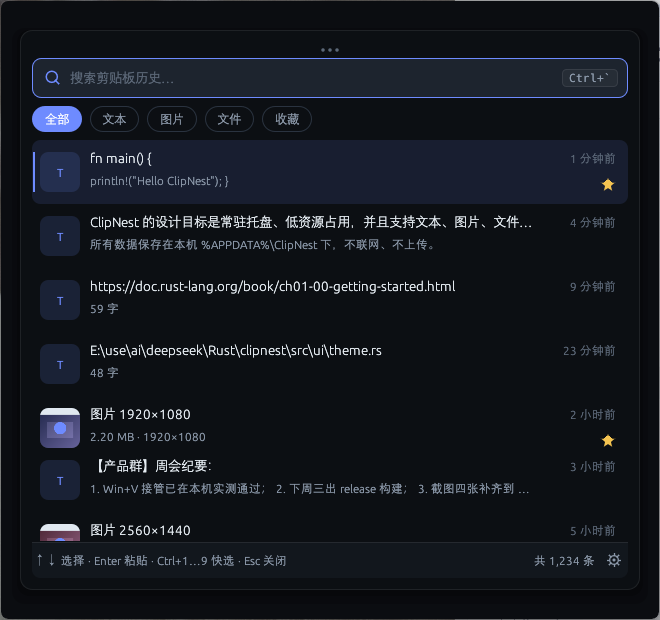
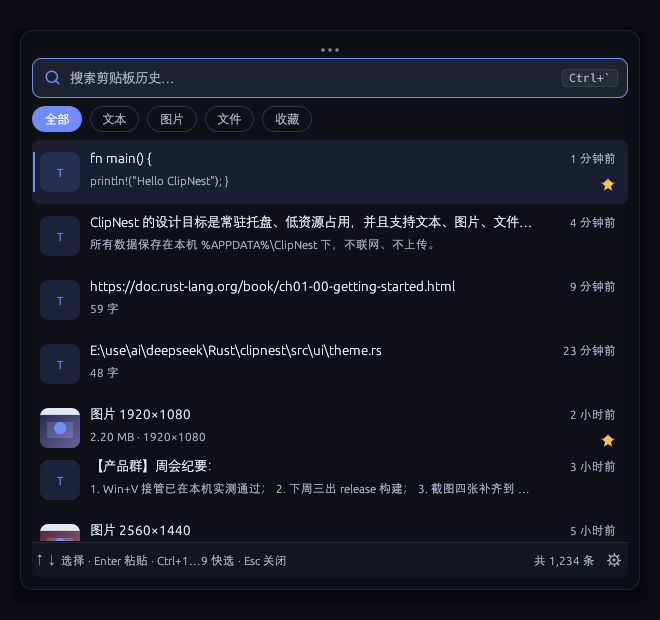
v1.7.1: fix picker readability on white/light backgrounds

diff --git a/src/ui/theme.rs b/src/ui/theme.rs
@@ -3,7 +3,7 @@
 //! **严格对应设计文档 §7 视觉规范**（色板不可自创）：
 //! - 窗口底 `#0E1116` @82%（亚克力上叠层）；面板/侧栏 `#131820` @92%；
 //!   卡片/输入框 `#1A212B`；分隔线 `#2A3340`（1px、8% 白叠加）。
-//! - 主/次/弱文本 `#E6EDF3` / `#8B98A9` / `#5C6878`；强调 `#6E8BFF`（悬停 `#8AA2FF`）。
+//! - 主/次/弱文本 `#E6EDF3` / `#A5B2C4` / `#7F8C9E`；强调 `#6E8BFF`（悬停 `#8AA2FF`）。
 //! - 字号：标题 15、列表标题 13.5、正文 13、辅助 11.5、代码 Monospace 12。
 //! - 行高 64；搜索框 40；圆角：窗口 12 / 卡片 10 / 输入框 9 / 缩略图 8 / 胶囊全圆。
 //!
@@ -55,8 +55,9 @@ struct Palette {
 
 const DARK: Palette = Palette {
     text: Color32::from_rgb(0xE6, 0xED, 0xF3),
-    text_secondary: Color32::from_rgb(0x8B, 0x98, 0xA9),
-    text_weak: Color32::from_rgb(0x5C, 0x68, 0x78),
+    // 提高深色主题的辅助文字对比度：在磨砂/明亮桌面背景下仍能看清说明文字。
+    text_secondary: Color32::from_rgb(0xA5, 0xB2, 0xC4),
+    text_weak: Color32::from_rgb(0x7F, 0x8C, 0x9E),
     accent: Color32::from_rgb(0x6E, 0x8B, 0xFF),
     accent_hover: Color32::from_rgb(0x8A, 0xA2, 0xFF),
     danger: Color32::from_rgb(0xFF, 0x6B, 0x6B),
@@ -234,6 +235,22 @@ pub fn panel_bg() -> Color32 {
     let pct = glass_opacity() as u16;
     let alpha = ((pct * 255) / 100 + 20).clamp(60, 255) as u8;
     scale_alpha(palette().panel_base, alpha)
+}
+
+/// 候选窗内容区底色（磨砂层之上再铺一层）。
+///
+/// 用户的「磨砂透明度」可以调到很低，此时如果内容直接画在透出的白色/浅色
+/// 桌面上，白字会和桌面混在一起。这里给内容区一个与玻璃透明度无关的
+/// **最低不透明度**：外层仍保留磨砂边缘，内容区始终有足够深的底，保证
+/// 主文本/次文本的对比度。
+pub fn content_bg() -> Color32 {
+    if !glass_enabled() {
+        return palette().window_base;
+    }
+    let pct = glass_opacity() as u16;
+    let min_alpha = if is_light() { 224 } else { 200 };
+    let alpha = ((pct * 255) / 100).max(min_alpha).clamp(40, 255) as u8;
+    scale_alpha(palette().window_base, alpha)
 }
 
 pub fn divider() -> Stroke {
@@ -632,13 +649,20 @@ pub fn install_theme(ctx: &egui::Context) {
 #[cfg(test)]
 mod tests {
     use super::*;
+    use std::sync::Mutex;
+
+    /// 主题状态是全局原子变量，cargo test 默认多线程并行；这里串行化会读写全局态
+    /// 的用例，避免 `dark_palette_matches_spec` 与 `alpha_layers_match_spec`
+    /// 互相把主题/透明度改掉导致偶发失败。
+    static TEST_LOCK: Mutex<()> = Mutex::new(());
 
     #[test]
     fn dark_palette_matches_spec() {
+        let _guard = TEST_LOCK.lock().unwrap();
         set_light(false);
         assert_eq!(text(), Color32::from_rgb(0xE6, 0xED, 0xF3));
-        assert_eq!(text_secondary(), Color32::from_rgb(0x8B, 0x98, 0xA9));
-        assert_eq!(text_weak(), Color32::from_rgb(0x5C, 0x68, 0x78));
+        assert_eq!(text_secondary(), Color32::from_rgb(0xA5, 0xB2, 0xC4));
+        assert_eq!(text_weak(), Color32::from_rgb(0x7F, 0x8C, 0x9E));
         assert_eq!(accent(), Color32::from_rgb(0x6E, 0x8B, 0xFF));
         assert_eq!(accent_hover(), Color32::from_rgb(0x8A, 0xA2, 0xFF));
         assert_eq!(danger(), Color32::from_rgb(0xFF, 0x6B, 0x6B));
@@ -653,6 +677,7 @@ mod tests {
 
     #[test]
     fn light_palette_has_dark_text_on_light_cards() {
+        let _guard = TEST_LOCK.lock().unwrap();
         let palette = LIGHT;
         assert!(palette.text.r() < 64, "浅色皮肤主文本必须是深色");
         assert!(palette.card.r() > 220, "浅色皮肤卡片必须是浅色");
@@ -662,6 +687,7 @@ mod tests {
 
     #[test]
     fn alpha_layers_match_spec() {
+        let _guard = TEST_LOCK.lock().unwrap();
         set_light(false);
         set_glass_opacity(75);
         assert_eq!(window_bg().a(), 191);
@@ -670,6 +696,11 @@ mod tests {
         set_glass_opacity(35);
         assert!(window_bg().a() < 191);
         assert!(panel_bg().a() < 211);
+        // 内容区有对比度下限：即使玻璃滑到 35%，也不能透成白色面板。
+        assert!(content_bg().a() >= 200, "深色内容区 alpha 不应低于 200");
+        set_light(true);
+        assert!(content_bg().a() >= 224, "浅色内容区 alpha 不应低于 224");
+        set_light(false);
         set_glass_opacity(75);
         assert_eq!(accent_fill().a(), 31);
         assert_eq!(hover_fill().a(), 15);
@@ -699,6 +730,7 @@ mod tests {
 
     #[test]
     fn install_theme_sets_dark_and_light_styles() {
+        let _guard = TEST_LOCK.lock().unwrap();
         let ctx = egui::Context::default();
         set_light(false);
         install_theme(&ctx);
@@ -730,6 +762,7 @@ mod tests {
 
     #[test]
     fn kind_colors_map_to_palette() {
+        let _guard = TEST_LOCK.lock().unwrap();
         set_light(false);
         assert_eq!(kind_color(ClipKind::Text), accent());
         assert_eq!(kind_color(ClipKind::Image), success());
@@ -743,6 +776,7 @@ mod tests {
 
     #[test]
     fn frames_use_theme_radii() {
+        let _guard = TEST_LOCK.lock().unwrap();
         set_light(false);
         let picker = picker_frame();
         assert_eq!(picker.corner_radius.nw, RADIUS_WINDOW);

diff --git a/src/ui/picker.rs b/src/ui/picker.rs
@@ -20,6 +20,13 @@ pub(crate) fn show(
 ) {
     let full = ui.max_rect();
     let hint_top = full.bottom() - theme::HINT_BAR_HEIGHT;
+    // 内容区底：在磨砂玻璃之上再压一层有最低不透明度的底，
+    // 避免用户把透明度调低后、内容直接叠在白色桌面上导致文字看不清。
+    ui.painter().rect_filled(
+        full,
+        egui::CornerRadius::same(theme::RADIUS_CARD),
+        theme::content_bg(),
+    );
     // 顶部 16px 拖拽条：任意位置按住即可拖动面板（搜索框仍用于输入）。
     const DRAG_STRIP: f32 = 16.0;
     let drag_rect = Rect::from_min_size(full.min, Vec2::new(full.width(), DRAG_STRIP));
@@ -324,9 +331,9 @@ fn empty_state(
         icon_center,
         44.0,
         if searching {
-            theme::text_weak()
+            theme::text_secondary()
         } else {
-            theme::text_weak().gamma_multiply(0.9)
+            theme::text_secondary().gamma_multiply(0.9)
         },
     );
     painter.text(
@@ -338,11 +345,7 @@ fn empty_state(
             "还没有记录，复制点什么试试"
         },
         theme::font_body(),
-        if searching {
-            theme::text_secondary()
-        } else {
-            theme::text_weak()
-        },
+        theme::text_secondary(),
     );
     if searching {
         let btn_rect = Rect::from_center_size(
@@ -361,7 +364,7 @@ fn empty_state(
             Align2::CENTER_TOP,
             "正在加载…",
             theme::font_aux(),
-            theme::text_weak(),
+            theme::text_secondary(),
         );
     }
     let _ = actions;

diff --git a/src/app.rs b/src/app.rs
@@ -82,7 +82,11 @@ impl ClipNestApp {
         let settings = crate::config::load_settings();
         crate::ui::theme::set_light(settings.theme == ThemeMode::Light);
         crate::ui::theme::set_glass_enabled(true);
-        crate::ui::theme::set_glass_opacity(settings.glass_opacity);
+        // 调试/截图用：临时覆盖磨砂透明度，不写回 settings.json。
+        let dev_glass = std::env::var("CLIPNEST_DEV_GLASS")
+            .ok()
+            .and_then(|value| value.parse::<u8>().ok());
+        crate::ui::theme::set_glass_opacity(dev_glass.unwrap_or(settings.glass_opacity));
         crate::logging::init(&crate::config::logs_dir(), &settings.log_level);
         // 排查内存占用时可跳过字体/背景材质（仅调试用）。
         if std::env::var_os("CLIPNEST_SKIP_FONTS").is_none() {

diff --git a/src/ui/pages/settings.rs b/src/ui/pages/settings.rs
@@ -71,7 +71,7 @@ fn appearance_section(state: &mut UiState, ui: &mut egui::Ui, actions: &mut Vec<
         setting_row(
             ui,
             "磨砂透明度",
-            "越低越透明（类似终端透出背景）；只作用于候选窗，管理台使用不透明背景。",
+            "越低外层越透；内容区会自动保留最低不透明度，避免白底/亮色桌面上文字看不清。只作用于候选窗。",
             |ui| {
                 let mut opacity = state.settings_draft.glass_opacity as u32;
                 let slider = egui::Slider::new(&mut opacity, 35..=100)

diff --git a/src/ui/row.rs b/src/ui/row.rs
@@ -127,7 +127,7 @@ pub fn clip_row(ui: &mut egui::Ui, row: ClipRow<'_>) -> ClipRowOutput {
         Align2::RIGHT_TOP,
         fmt_relative_time(row.item.last_used_at),
         theme::font_aux(),
-        theme::text_weak(),
+        theme::text_secondary(),
     );
     let star_center = Pos2::new(rect.right() - 20.0, rect.bottom() - 19.0);
     let star_rect = Rect::from_center_size(star_center, Vec2::splat(18.0));

diff --git a/src/ui/widgets.rs b/src/ui/widgets.rs
@@ -341,7 +341,7 @@ pub fn search_box(
             .hint_text(
                 egui::RichText::new(placeholder)
                     .size(theme::SIZE_BODY)
-                    .color(theme::text_weak()),
+                    .color(theme::text_secondary()),
             )
             .font(theme::font_body())
             .text_color(theme::text())

diff --git a/docs/ACCEPTANCE-RESULT.md b/docs/ACCEPTANCE-RESULT.md
@@ -291,3 +291,28 @@
 - **底部提示条可读性**：候选窗 hint bar 增加 panel 底色 + 圆角，文字从 `text_weak` 提升为 `text_secondary`；
   浅色/白底/高透明下也能看清。
 - 校验：`cargo test` 142 passed；`cargo build` 0 warnings；截图确认 hint bar 底色与文字对比。
+
+---
+
+## 13. v1.7.1（2026-11-02，白底/浅色桌面候选窗文字可读性）
+
+### 用户反馈
+- 候选窗叠在白色/浅色窗口上时，整块面板被透成浅灰，标题、预览、时间、过滤胶囊都几乎看不清。
+
+### 根因
+- 磨砂透明度可低至 35%，窗口底与 `window_bg` 一起变透明后，列表行是**透明行**，白字直接叠在白/浅色背景上；
+  辅助文本（`text_weak`）本身对比度也偏低。
+
+### 修复
+- 新增 `theme::content_bg()`：候选窗内容区在窗口磨砂层之上再铺一层**最低不透明度底**
+  （深色 ≥ 200/255、浅色 ≥ 224/255），与用户滑杆值无关；外层边缘/圆角仍保留 Acrylic。
+- `src/ui/picker.rs` 在绘制拖拽点/搜索/列表前铺 `content_bg()`，所有列表行不再直接叠在桌面背景上。
+- 深色主题辅助文本整体提亮：`text_secondary #8B98A9 → #A5B2C4`、`text_weak #5C6878 → #7F8C9E`；
+  行相对时间、搜索占位、空状态/加载文案从 `text_weak` 提升为 `text_secondary`。
+- 设置页磨砂说明改为「外层越透，内容区自动保留最低不透明度」；截图更新 `docs/screenshots/picker.png`、
+  `picker-transparent.png`（实际在白色窗口上以 35% 透明度截图验证）。
+
+### 校验
+- `cargo test --release` 142 passed / 0 failed（连续 5 次全绿；主题用例用 `TEST_LOCK: Mutex<()>`
+  串行化全局主题状态，修复新增断言后的偶发并行失败）；`cargo build --release` 0 warnings；
+  实机截图：白色窗口背景 + 35% 磨砂下，标题/预览/时间/胶囊均可读。
